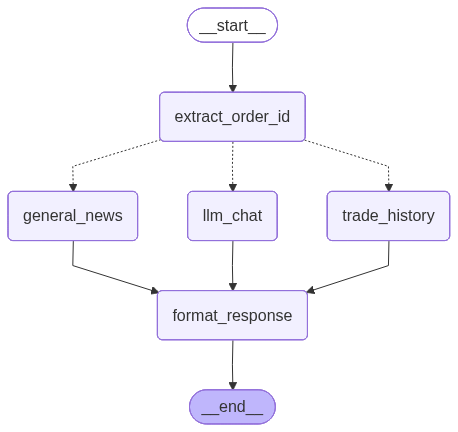
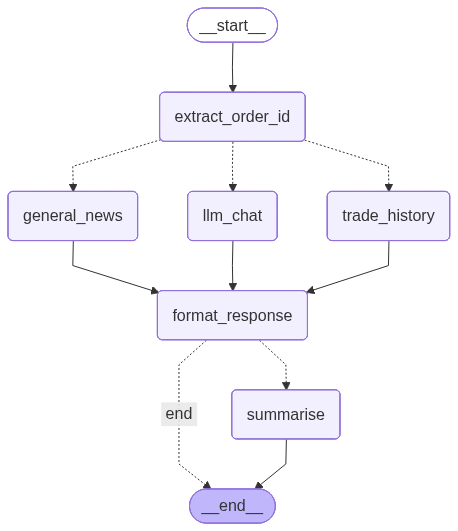
fix: update graph state

diff --git a/rag-chatbot/report.html b/rag-chatbot/report.html
@@ -328,7 +328,7 @@ div.media {
   </head>
   <body>
     <h1 id="title">report.html</h1>
-    <p>Report generated on 20-Mar-2026 at 17:16:57 by <a href="https://pypi.python.org/pypi/pytest-html">pytest-html</a>
+    <p>Report generated on 21-Mar-2026 at 21:15:30 by <a href="https://pypi.python.org/pypi/pytest-html">pytest-html</a>
         v4.2.0</p>
     <div id="environment-header">
       <h2>Environment</h2>
@@ -383,7 +383,7 @@ div.media {
         <h2>Summary</h2>
         <div class="additional-summary prefix">
         </div>
-        <p class="run-count">4 tests took 00:00:02.</p>
+        <p class="run-count">38 tests took 00:00:01.</p>
         <p class="filter">(Un)check the boxes to filter the results.</p>
         <div class="summary__reload">
           <div class="summary__reload__button hidden" onclick="location.reload()">
@@ -393,18 +393,18 @@ div.media {
         <div class="summary__spacer"></div>
         <div class="controls">
           <div class="filters">
-            <input checked="true" class="filter" name="filter_checkbox" type="checkbox" data-test-result="failed" >
-            <span class="failed">1 Failed,</span>
+            <input checked="true" class="filter" name="filter_checkbox" type="checkbox" data-test-result="failed" disabled>
+            <span class="failed">0 Failed,</span>
             <input checked="true" class="filter" name="filter_checkbox" type="checkbox" data-test-result="passed" >
-            <span class="passed">3 Passed,</span>
+            <span class="passed">38 Passed,</span>
             <input checked="true" class="filter" name="filter_checkbox" type="checkbox" data-test-result="skipped" disabled>
             <span class="skipped">0 Skipped,</span>
             <input checked="true" class="filter" name="filter_checkbox" type="checkbox" data-test-result="xfailed" disabled>
             <span class="xfailed">0 Expected failures,</span>
             <input checked="true" class="filter" name="filter_checkbox" type="checkbox" data-test-result="xpassed" disabled>
             <span class="xpassed">0 Unexpected passes,</span>
-            <input checked="true" class="filter" name="filter_checkbox" type="checkbox" data-test-result="error" >
-            <span class="error">1 Errors,</span>
+            <input checked="true" class="filter" name="filter_checkbox" type="checkbox" data-test-result="error" disabled>
+            <span class="error">0 Errors,</span>
             <input checked="true" class="filter" name="filter_checkbox" type="checkbox" data-test-result="rerun" disabled>
             <span class="rerun">0 Reruns</span>
             <input checked="true" class="filter" name="filter_checkbox" type="checkbox" data-test-result="retried" disabled>
@@ -431,7 +431,7 @@ div.media {
       </thead>
     </table>
   <footer>
-    <div id="data-container" data-jsonblob="{&#34;environment&#34;: {&#34;Python&#34;: &#34;3.12.9&#34;, &#34;Platform&#34;: &#34;macOS-26.3.1-arm64-arm-64bit&#34;, &#34;Packages&#34;: {&#34;pytest&#34;: &#34;9.0.2&#34;, &#34;pluggy&#34;: &#34;1.6.0&#34;}, &#34;Plugins&#34;: {&#34;anyio&#34;: &#34;4.12.1&#34;, &#34;langsmith&#34;: &#34;0.7.20&#34;, &#34;metadata&#34;: &#34;3.1.1&#34;, &#34;html&#34;: &#34;4.2.0&#34;, &#34;asyncio&#34;: &#34;1.3.0&#34;}, &#34;JAVA_HOME&#34;: &#34;/Users/joshuadavid/.jenv/versions/22&#34;}, &#34;tests&#34;: {&#34;tests/test_agent.py::test_extract_order_id_regex&#34;: [{&#34;extras&#34;: [], &#34;result&#34;: &#34;Passed&#34;, &#34;testId&#34;: &#34;tests/test_agent.py::test_extract_order_id_regex&#34;, &#34;duration&#34;: &#34;215 ms&#34;, &#34;resultsTableRow&#34;: [&#34;&lt;td class=\&#34;col-result\&#34;&gt;Passed&lt;/td&gt;&#34;, &#34;&lt;td class=\&#34;col-testId\&#34;&gt;tests/test_agent.py::test_extract_order_id_regex&lt;/td&gt;&#34;, &#34;&lt;td class=\&#34;col-duration\&#34;&gt;215 ms&lt;/td&gt;&#34;, &#34;&lt;td class=\&#34;col-links\&#34;&gt;&lt;/td&gt;&#34;], &#34;log&#34;: &#34;No log output captured.&#34;}], &#34;tests/test_agent.py::test_route_logic&#34;: [{&#34;extras&#34;: [], &#34;result&#34;: &#34;Failed&#34;, &#34;testId&#34;: &#34;tests/test_agent.py::test_route_logic&#34;, &#34;duration&#34;: &#34;120 ms&#34;, &#34;resultsTableRow&#34;: [&#34;&lt;td class=\&#34;col-result\&#34;&gt;Failed&lt;/td&gt;&#34;, &#34;&lt;td class=\&#34;col-testId\&#34;&gt;tests/test_agent.py::test_route_logic&lt;/td&gt;&#34;, &#34;&lt;td class=\&#34;col-duration\&#34;&gt;120 ms&lt;/td&gt;&#34;, &#34;&lt;td class=\&#34;col-links\&#34;&gt;&lt;/td&gt;&#34;], &#34;log&#34;: &#34;agent_graph = &amp;lt;app.services.ai_agent.chat_workflow.ChatWorkflow object at 0x108673f20&amp;gt;\n\n    def test_route_logic(agent_graph):\n        # Route to trade_history if order_id exists\n        state_with_id: AgentState = {\n            &amp;quot;messages&amp;quot;: [],\n            &amp;quot;sender&amp;quot;: &amp;quot;user&amp;quot;,\n            &amp;quot;order_id&amp;quot;: &amp;quot;123&amp;quot;,\n            &amp;quot;query&amp;quot;: &amp;quot;&amp;quot;,\n            &amp;quot;variables&amp;quot;: {},\n            &amp;quot;metadata&amp;quot;: {},\n        }\n&amp;gt;       assert agent_graph._route(state_with_id) == &amp;quot;trade_history&amp;quot;\nE       AssertionError: assert &amp;lt;coroutine object ChatWorkflow._route at 0x10b6eb340&amp;gt; == &amp;#x27;trade_history&amp;#x27;\nE        +  where &amp;lt;coroutine object ChatWorkflow._route at 0x10b6eb340&amp;gt; = _route({&amp;#x27;messages&amp;#x27;: [], &amp;#x27;metadata&amp;#x27;: {}, &amp;#x27;order_id&amp;#x27;: &amp;#x27;123&amp;#x27;, &amp;#x27;query&amp;#x27;: &amp;#x27;&amp;#x27;, ...})\nE        +    where _route = &amp;lt;app.services.ai_agent.chat_workflow.ChatWorkflow object at 0x108673f20&amp;gt;._route\n\ntests/test_agent.py:47: AssertionError\n&#34;}], &#34;tests/test_agent.py::test_format_response_json&#34;: [{&#34;extras&#34;: [], &#34;result&#34;: &#34;Passed&#34;, &#34;testId&#34;: &#34;tests/test_agent.py::test_format_response_json&#34;, &#34;duration&#34;: &#34;145 ms&#34;, &#34;resultsTableRow&#34;: [&#34;&lt;td class=\&#34;col-result\&#34;&gt;Passed&lt;/td&gt;&#34;, &#34;&lt;td class=\&#34;col-testId\&#34;&gt;tests/test_agent.py::test_format_response_json&lt;/td&gt;&#34;, &#34;&lt;td class=\&#34;col-duration\&#34;&gt;145 ms&lt;/td&gt;&#34;, &#34;&lt;td class=\&#34;col-links\&#34;&gt;&lt;/td&gt;&#34;], &#34;log&#34;: &#34;No log output captured.&#34;}], &#34;tests/test_agent.py::test_format_response_context&#34;: [{&#34;extras&#34;: [], &#34;result&#34;: &#34;Passed&#34;, &#34;testId&#34;: &#34;tests/test_agent.py::test_format_response_context&#34;, &#34;duration&#34;: &#34;118 ms&#34;, &#34;resultsTableRow&#34;: [&#34;&lt;td class=\&#34;col-result\&#34;&gt;Passed&lt;/td&gt;&#34;, &#34;&lt;td class=\&#34;col-testId\&#34;&gt;tests/test_agent.py::test_format_response_context&lt;/td&gt;&#34;, &#34;&lt;td class=\&#34;col-duration\&#34;&gt;118 ms&lt;/td&gt;&#34;, &#34;&lt;td class=\&#34;col-links\&#34;&gt;&lt;/td&gt;&#34;], &#34;log&#34;: &#34;No log output captured.&#34;}], &#34;tests/test_agent_bot_service.py::test_get_llm_prompt_from_cache&#34;: [{&#34;extras&#34;: [], &#34;result&#34;: &#34;Error&#34;, &#34;testId&#34;: &#34;tests/test_agent_bot_service.py::test_get_llm_prompt_from_cache::setup&#34;, &#34;duration&#34;: &#34;0 ms&#34;, &#34;resultsTableRow&#34;: [&#34;&lt;td class=\&#34;col-result\&#34;&gt;Error&lt;/td&gt;&#34;, &#34;&lt;td class=\&#34;col-testId\&#34;&gt;tests/test_agent_bot_service.py::test_get_llm_prompt_from_cache::setup&lt;/td&gt;&#34;, &#34;&lt;td class=\&#34;col-duration\&#34;&gt;0 ms&lt;/td&gt;&#34;, &#34;&lt;td class=\&#34;col-links\&#34;&gt;&lt;/td&gt;&#34;], &#34;log&#34;: &#34;@pytest.fixture\n    def mock_dependencies():\n        with (\n            patch(&amp;quot;app.services.agent_bot_service.RedisService&amp;quot;) as mock_redis,\n            patch(&amp;quot;app.services.agent_bot_service.S3ConfigService&amp;quot;) as mock_s3,\n&amp;gt;           patch(&amp;quot;app.services.agent_bot_service.create_agent_graph&amp;quot;) as mock_create_agent,\n            ^^^^^^^^^^^^^^^^^^^^^^^^^^^^^^^^^^^^^^^^^^^^^^^^^^^^^^^^^^\n        ):\n\ntests/test_agent_bot_service.py:13: \n_ _ _ _ _ _ _ _ _ _ _ _ _ _ _ _ _ _ _ _ _ _ _ _ _ _ _ _ _ _ _ _ _ _ _ _ _ _ _ _ _ _ _ _ _ _ _ _ _ _ _ _ _ _ _ _ _ _ _ _ _ _ _ _ _ _ _ _ _ _ _ _ _ _ _ _ _\n/opt/homebrew/Cellar/python@3.12/3.12.9/Frameworks/Python.framework/Versions/3.12/lib/python3.12/unittest/mock.py:1467: in __enter__\n    original, local = self.get_original()\n                      ^^^^^^^^^^^^^^^^^^^\n_ _ _ _ _ _ _ _ _ _ _ _ _ _ _ _ _ _ _ _ _ _ _ _ _ _ _ _ _ _ _ _ _ _ _ _ _ _ _ _ _ _ _ _ _ _ _ _ _ _ _ _ _ _ _ _ _ _ _ _ _ _ _ _ _ _ _ _ _ _ _ _ _ _ _ _ _\n\nself = &amp;lt;unittest.mock._patch object at 0x10b789f40&amp;gt;\n\n    def get_original(self):\n        target = self.getter()\n        name = self.attribute\n    \n        original = DEFAULT\n        local = False\n    \n        try:\n            original = target.__dict__[name]\n        except (AttributeError, KeyError):\n            original = getattr(target, name, DEFAULT)\n        else:\n            local = True\n    \n        if name in _builtins and isinstance(target, ModuleType):\n            self.create = True\n    \n        if not self.create and original is DEFAULT:\n&amp;gt;           raise AttributeError(\n                &amp;quot;%s does not have the attribute %r&amp;quot; % (target, name)\n            )\nE           AttributeError: &amp;lt;module &amp;#x27;app.services.agent_bot_service&amp;#x27; from &amp;#x27;/Users/joshuadavid/agentic-ai-trading-be/rag-chatbot/app/services/agent_bot_service.py&amp;#x27;&amp;gt; does not have the attribute &amp;#x27;create_agent_graph&amp;#x27;\n\n/opt/homebrew/Cellar/python@3.12/3.12.9/Frameworks/Python.framework/Versions/3.12/lib/python3.12/unittest/mock.py:1437: AttributeError\n&#34;}]}, &#34;renderCollapsed&#34;: [&#34;passed&#34;], &#34;initialSort&#34;: &#34;result&#34;, &#34;title&#34;: &#34;report.html&#34;}"></div>
+    <div id="data-container" data-jsonblob="{&#34;environment&#34;: {&#34;Python&#34;: &#34;3.12.9&#34;, &#34;Platform&#34;: &#34;macOS-26.3.1-arm64-arm-64bit&#34;, &#34;Packages&#34;: {&#34;pytest&#34;: &#34;9.0.2&#34;, &#34;pluggy&#34;: &#34;1.6.0&#34;}, &#34;Plugins&#34;: {&#34;anyio&#34;: &#34;4.12.1&#34;, &#34;langsmith&#34;: &#34;0.7.20&#34;, &#34;metadata&#34;: &#34;3.1.1&#34;, &#34;html&#34;: &#34;4.2.0&#34;, &#34;asyncio&#34;: &#34;1.3.0&#34;}, &#34;JAVA_HOME&#34;: &#34;/Users/joshuadavid/.jenv/versions/22&#34;}, &#34;tests&#34;: {&#34;tests/test_agent.py::test_extract_order_id_regex&#34;: [{&#34;extras&#34;: [], &#34;result&#34;: &#34;Passed&#34;, &#34;testId&#34;: &#34;tests/test_agent.py::test_extract_order_id_regex&#34;, &#34;duration&#34;: &#34;1 ms&#34;, &#34;resultsTableRow&#34;: [&#34;&lt;td class=\&#34;col-result\&#34;&gt;Passed&lt;/td&gt;&#34;, &#34;&lt;td class=\&#34;col-testId\&#34;&gt;tests/test_agent.py::test_extract_order_id_regex&lt;/td&gt;&#34;, &#34;&lt;td class=\&#34;col-duration\&#34;&gt;1 ms&lt;/td&gt;&#34;, &#34;&lt;td class=\&#34;col-links\&#34;&gt;&lt;/td&gt;&#34;], &#34;log&#34;: &#34;No log output captured.&#34;}], &#34;tests/test_agent.py::test_route_logic&#34;: [{&#34;extras&#34;: [], &#34;result&#34;: &#34;Passed&#34;, &#34;testId&#34;: &#34;tests/test_agent.py::test_route_logic&#34;, &#34;duration&#34;: &#34;8 ms&#34;, &#34;resultsTableRow&#34;: [&#34;&lt;td class=\&#34;col-result\&#34;&gt;Passed&lt;/td&gt;&#34;, &#34;&lt;td class=\&#34;col-testId\&#34;&gt;tests/test_agent.py::test_route_logic&lt;/td&gt;&#34;, &#34;&lt;td class=\&#34;col-duration\&#34;&gt;8 ms&lt;/td&gt;&#34;, &#34;&lt;td class=\&#34;col-links\&#34;&gt;&lt;/td&gt;&#34;], &#34;log&#34;: &#34;No log output captured.&#34;}], &#34;tests/test_agent.py::test_format_response_json&#34;: [{&#34;extras&#34;: [], &#34;result&#34;: &#34;Passed&#34;, &#34;testId&#34;: &#34;tests/test_agent.py::test_format_response_json&#34;, &#34;duration&#34;: &#34;0 ms&#34;, &#34;resultsTableRow&#34;: [&#34;&lt;td class=\&#34;col-result\&#34;&gt;Passed&lt;/td&gt;&#34;, &#34;&lt;td class=\&#34;col-testId\&#34;&gt;tests/test_agent.py::test_format_response_json&lt;/td&gt;&#34;, &#34;&lt;td class=\&#34;col-duration\&#34;&gt;0 ms&lt;/td&gt;&#34;, &#34;&lt;td class=\&#34;col-links\&#34;&gt;&lt;/td&gt;&#34;], &#34;log&#34;: &#34;No log output captured.&#34;}], &#34;tests/test_agent.py::test_format_response_context&#34;: [{&#34;extras&#34;: [], &#34;result&#34;: &#34;Passed&#34;, &#34;testId&#34;: &#34;tests/test_agent.py::test_format_response_context&#34;, &#34;duration&#34;: &#34;0 ms&#34;, &#34;resultsTableRow&#34;: [&#34;&lt;td class=\&#34;col-result\&#34;&gt;Passed&lt;/td&gt;&#34;, &#34;&lt;td class=\&#34;col-testId\&#34;&gt;tests/test_agent.py::test_format_response_context&lt;/td&gt;&#34;, &#34;&lt;td class=\&#34;col-duration\&#34;&gt;0 ms&lt;/td&gt;&#34;, &#34;&lt;td class=\&#34;col-links\&#34;&gt;&lt;/td&gt;&#34;], &#34;log&#34;: &#34;No log output captured.&#34;}], &#34;tests/test_agent_bot_service.py::test_get_llm_prompt_from_cache&#34;: [{&#34;extras&#34;: [], &#34;result&#34;: &#34;Passed&#34;, &#34;testId&#34;: &#34;tests/test_agent_bot_service.py::test_get_llm_prompt_from_cache&#34;, &#34;duration&#34;: &#34;1 ms&#34;, &#34;resultsTableRow&#34;: [&#34;&lt;td class=\&#34;col-result\&#34;&gt;Passed&lt;/td&gt;&#34;, &#34;&lt;td class=\&#34;col-testId\&#34;&gt;tests/test_agent_bot_service.py::test_get_llm_prompt_from_cache&lt;/td&gt;&#34;, &#34;&lt;td class=\&#34;col-duration\&#34;&gt;1 ms&lt;/td&gt;&#34;, &#34;&lt;td class=\&#34;col-links\&#34;&gt;&lt;/td&gt;&#34;], &#34;log&#34;: &#34;No log output captured.&#34;}], &#34;tests/test_agent_bot_service.py::test_get_llm_prompt_from_s3&#34;: [{&#34;extras&#34;: [], &#34;result&#34;: &#34;Passed&#34;, &#34;testId&#34;: &#34;tests/test_agent_bot_service.py::test_get_llm_prompt_from_s3&#34;, &#34;duration&#34;: &#34;1 ms&#34;, &#34;resultsTableRow&#34;: [&#34;&lt;td class=\&#34;col-result\&#34;&gt;Passed&lt;/td&gt;&#34;, &#34;&lt;td class=\&#34;col-testId\&#34;&gt;tests/test_agent_bot_service.py::test_get_llm_prompt_from_s3&lt;/td&gt;&#34;, &#34;&lt;td class=\&#34;col-duration\&#34;&gt;1 ms&lt;/td&gt;&#34;, &#34;&lt;td class=\&#34;col-links\&#34;&gt;&lt;/td&gt;&#34;], &#34;log&#34;: &#34;No log output captured.&#34;}], &#34;tests/test_agent_bot_service.py::test_get_chat_history&#34;: [{&#34;extras&#34;: [], &#34;result&#34;: &#34;Passed&#34;, &#34;testId&#34;: &#34;tests/test_agent_bot_service.py::test_get_chat_history&#34;, &#34;duration&#34;: &#34;1 ms&#34;, &#34;resultsTableRow&#34;: [&#34;&lt;td class=\&#34;col-result\&#34;&gt;Passed&lt;/td&gt;&#34;, &#34;&lt;td class=\&#34;col-testId\&#34;&gt;tests/test_agent_bot_service.py::test_get_chat_history&lt;/td&gt;&#34;, &#34;&lt;td class=\&#34;col-duration\&#34;&gt;1 ms&lt;/td&gt;&#34;, &#34;&lt;td class=\&#34;col-links\&#34;&gt;&lt;/td&gt;&#34;], &#34;log&#34;: &#34;No log output captured.&#34;}], &#34;tests/test_agent_bot_service.py::test_is_displayable&#34;: [{&#34;extras&#34;: [], &#34;result&#34;: &#34;Passed&#34;, &#34;testId&#34;: &#34;tests/test_agent_bot_service.py::test_is_displayable&#34;, &#34;duration&#34;: &#34;1 ms&#34;, &#34;resultsTableRow&#34;: [&#34;&lt;td class=\&#34;col-result\&#34;&gt;Passed&lt;/td&gt;&#34;, &#34;&lt;td class=\&#34;col-testId\&#34;&gt;tests/test_agent_bot_service.py::test_is_displayable&lt;/td&gt;&#34;, &#34;&lt;td class=\&#34;col-duration\&#34;&gt;1 ms&lt;/td&gt;&#34;, &#34;&lt;td class=\&#34;col-links\&#34;&gt;&lt;/td&gt;&#34;], &#34;log&#34;: &#34;No log output captured.&#34;}], &#34;tests/test_agent_bot_service.py::test_format_message&#34;: [{&#34;extras&#34;: [], &#34;result&#34;: &#34;Passed&#34;, &#34;testId&#34;: &#34;tests/test_agent_bot_service.py::test_format_message&#34;, &#34;duration&#34;: &#34;1 ms&#34;, &#34;resultsTableRow&#34;: [&#34;&lt;td class=\&#34;col-result\&#34;&gt;Passed&lt;/td&gt;&#34;, &#34;&lt;td class=\&#34;col-testId\&#34;&gt;tests/test_agent_bot_service.py::test_format_message&lt;/td&gt;&#34;, &#34;&lt;td class=\&#34;col-duration\&#34;&gt;1 ms&lt;/td&gt;&#34;, &#34;&lt;td class=\&#34;col-links\&#34;&gt;&lt;/td&gt;&#34;], &#34;log&#34;: &#34;No log output captured.&#34;}], &#34;tests/test_agent_bot_service.py::test_invoke_agent_streaming&#34;: [{&#34;extras&#34;: [], &#34;result&#34;: &#34;Passed&#34;, &#34;testId&#34;: &#34;tests/test_agent_bot_service.py::test_invoke_agent_streaming&#34;, &#34;duration&#34;: &#34;3 ms&#34;, &#34;resultsTableRow&#34;: [&#34;&lt;td class=\&#34;col-result\&#34;&gt;Passed&lt;/td&gt;&#34;, &#34;&lt;td class=\&#34;col-testId\&#34;&gt;tests/test_agent_bot_service.py::test_invoke_agent_streaming&lt;/td&gt;&#34;, &#34;&lt;td class=\&#34;col-duration\&#34;&gt;3 ms&lt;/td&gt;&#34;, &#34;&lt;td class=\&#34;col-links\&#34;&gt;&lt;/td&gt;&#34;], &#34;log&#34;: &#34;----------------------------- Captured stdout call -----------------------------\n\u256d\u2500\u2500\u2500\u2500\u2500\u2500\u2500\u2500\u2500\u2500\u2500\u2500\u2500\u2500\u2500\u2500\u2500\u2500\u2500\u2500\u2500\u2500\u2500\u2500\u2500\u2500\u2500\u2500\u2500\u2500\u2500\u2500 Thinking... \u2500\u2500\u2500\u2500\u2500\u2500\u2500\u2500\u2500\u2500\u2500\u2500\u2500\u2500\u2500\u2500\u2500\u2500\u2500\u2500\u2500\u2500\u2500\u2500\u2500\u2500\u2500\u2500\u2500\u2500\u2500\u2500\u2500\u256e\n\u2502 &amp;#x27;Hi there&amp;#x27;                                                                   \u2502\n\u2570\u2500\u2500\u2500\u2500\u2500\u2500\u2500\u2500\u2500\u2500\u2500\u2500\u2500\u2500\u2500\u2500\u2500\u2500\u2500\u2500\u2500\u2500\u2500\u2500\u2500\u2500\u2500\u2500\u2500\u2500\u2500\u2500\u2500\u2500\u2500\u2500\u2500\u2500\u2500\u2500\u2500\u2500\u2500\u2500\u2500\u2500\u2500\u2500\u2500\u2500\u2500\u2500\u2500\u2500\u2500\u2500\u2500\u2500\u2500\u2500\u2500\u2500\u2500\u2500\u2500\u2500\u2500\u2500\u2500\u2500\u2500\u2500\u2500\u2500\u2500\u2500\u2500\u2500\u256f\n&#34;}], &#34;tests/test_core_services.py::test_s3_config_service_init&#34;: [{&#34;extras&#34;: [], &#34;result&#34;: &#34;Passed&#34;, &#34;testId&#34;: &#34;tests/test_core_services.py::test_s3_config_service_init&#34;, &#34;duration&#34;: &#34;0 ms&#34;, &#34;resultsTableRow&#34;: [&#34;&lt;td class=\&#34;col-result\&#34;&gt;Passed&lt;/td&gt;&#34;, &#34;&lt;td class=\&#34;col-testId\&#34;&gt;tests/test_core_services.py::test_s3_config_service_init&lt;/td&gt;&#34;, &#34;&lt;td class=\&#34;col-duration\&#34;&gt;0 ms&lt;/td&gt;&#34;, &#34;&lt;td class=\&#34;col-links\&#34;&gt;&lt;/td&gt;&#34;], &#34;log&#34;: &#34;No log output captured.&#34;}], &#34;tests/test_core_services.py::test_s3_get_file_content_success&#34;: [{&#34;extras&#34;: [], &#34;result&#34;: &#34;Passed&#34;, &#34;testId&#34;: &#34;tests/test_core_services.py::test_s3_get_file_content_success&#34;, &#34;duration&#34;: &#34;0 ms&#34;, &#34;resultsTableRow&#34;: [&#34;&lt;td class=\&#34;col-result\&#34;&gt;Passed&lt;/td&gt;&#34;, &#34;&lt;td class=\&#34;col-testId\&#34;&gt;tests/test_core_services.py::test_s3_get_file_content_success&lt;/td&gt;&#34;, &#34;&lt;td class=\&#34;col-duration\&#34;&gt;0 ms&lt;/td&gt;&#34;, &#34;&lt;td class=\&#34;col-links\&#34;&gt;&lt;/td&gt;&#34;], &#34;log&#34;: &#34;No log output captured.&#34;}], &#34;tests/test_core_services.py::test_s3_get_file_content_failure&#34;: [{&#34;extras&#34;: [], &#34;result&#34;: &#34;Passed&#34;, &#34;testId&#34;: &#34;tests/test_core_services.py::test_s3_get_file_content_failure&#34;, &#34;duration&#34;: &#34;0 ms&#34;, &#34;resultsTableRow&#34;: [&#34;&lt;td class=\&#34;col-result\&#34;&gt;Passed&lt;/td&gt;&#34;, &#34;&lt;td class=\&#34;col-testId\&#34;&gt;tests/test_core_services.py::test_s3_get_file_content_failure&lt;/td&gt;&#34;, &#34;&lt;td class=\&#34;col-duration\&#34;&gt;0 ms&lt;/td&gt;&#34;, &#34;&lt;td class=\&#34;col-links\&#34;&gt;&lt;/td&gt;&#34;], &#34;log&#34;: &#34;----------------------------- Captured stdout call -----------------------------\nS3 Retrieval Error: An error occurred (404) when calling the GetObject operation: Unknown\n&#34;}], &#34;tests/test_core_services.py::test_database_manager_get_checkpointer&#34;: [{&#34;extras&#34;: [], &#34;result&#34;: &#34;Passed&#34;, &#34;testId&#34;: &#34;tests/test_core_services.py::test_database_manager_get_checkpointer&#34;, &#34;duration&#34;: &#34;2 ms&#34;, &#34;resultsTableRow&#34;: [&#34;&lt;td class=\&#34;col-result\&#34;&gt;Passed&lt;/td&gt;&#34;, &#34;&lt;td class=\&#34;col-testId\&#34;&gt;tests/test_core_services.py::test_database_manager_get_checkpointer&lt;/td&gt;&#34;, &#34;&lt;td class=\&#34;col-duration\&#34;&gt;2 ms&lt;/td&gt;&#34;, &#34;&lt;td class=\&#34;col-links\&#34;&gt;&lt;/td&gt;&#34;], &#34;log&#34;: &#34;No log output captured.&#34;}], &#34;tests/test_history.py::test_agent_state_message_addition&#34;: [{&#34;extras&#34;: [], &#34;result&#34;: &#34;Passed&#34;, &#34;testId&#34;: &#34;tests/test_history.py::test_agent_state_message_addition&#34;, &#34;duration&#34;: &#34;0 ms&#34;, &#34;resultsTableRow&#34;: [&#34;&lt;td class=\&#34;col-result\&#34;&gt;Passed&lt;/td&gt;&#34;, &#34;&lt;td class=\&#34;col-testId\&#34;&gt;tests/test_history.py::test_agent_state_message_addition&lt;/td&gt;&#34;, &#34;&lt;td class=\&#34;col-duration\&#34;&gt;0 ms&lt;/td&gt;&#34;, &#34;&lt;td class=\&#34;col-links\&#34;&gt;&lt;/td&gt;&#34;], &#34;log&#34;: &#34;No log output captured.&#34;}], &#34;tests/test_history.py::test_agent_state_message_replacement&#34;: [{&#34;extras&#34;: [], &#34;result&#34;: &#34;Passed&#34;, &#34;testId&#34;: &#34;tests/test_history.py::test_agent_state_message_replacement&#34;, &#34;duration&#34;: &#34;0 ms&#34;, &#34;resultsTableRow&#34;: [&#34;&lt;td class=\&#34;col-result\&#34;&gt;Passed&lt;/td&gt;&#34;, &#34;&lt;td class=\&#34;col-testId\&#34;&gt;tests/test_history.py::test_agent_state_message_replacement&lt;/td&gt;&#34;, &#34;&lt;td class=\&#34;col-duration\&#34;&gt;0 ms&lt;/td&gt;&#34;, &#34;&lt;td class=\&#34;col-links\&#34;&gt;&lt;/td&gt;&#34;], &#34;log&#34;: &#34;No log output captured.&#34;}], &#34;tests/test_history.py::test_llm_chat_node_uses_history&#34;: [{&#34;extras&#34;: [], &#34;result&#34;: &#34;Passed&#34;, &#34;testId&#34;: &#34;tests/test_history.py::test_llm_chat_node_uses_history&#34;, &#34;duration&#34;: &#34;1 ms&#34;, &#34;resultsTableRow&#34;: [&#34;&lt;td class=\&#34;col-result\&#34;&gt;Passed&lt;/td&gt;&#34;, &#34;&lt;td class=\&#34;col-testId\&#34;&gt;tests/test_history.py::test_llm_chat_node_uses_history&lt;/td&gt;&#34;, &#34;&lt;td class=\&#34;col-duration\&#34;&gt;1 ms&lt;/td&gt;&#34;, &#34;&lt;td class=\&#34;col-links\&#34;&gt;&lt;/td&gt;&#34;], &#34;log&#34;: &#34;No log output captured.&#34;}], &#34;tests/test_history.py::test_format_response_node_replacement&#34;: [{&#34;extras&#34;: [], &#34;result&#34;: &#34;Passed&#34;, &#34;testId&#34;: &#34;tests/test_history.py::test_format_response_node_replacement&#34;, &#34;duration&#34;: &#34;0 ms&#34;, &#34;resultsTableRow&#34;: [&#34;&lt;td class=\&#34;col-result\&#34;&gt;Passed&lt;/td&gt;&#34;, &#34;&lt;td class=\&#34;col-testId\&#34;&gt;tests/test_history.py::test_format_response_node_replacement&lt;/td&gt;&#34;, &#34;&lt;td class=\&#34;col-duration\&#34;&gt;0 ms&lt;/td&gt;&#34;, &#34;&lt;td class=\&#34;col-links\&#34;&gt;&lt;/td&gt;&#34;], &#34;log&#34;: &#34;No log output captured.&#34;}], &#34;tests/test_llm_providers.py::test_get_strategy_success&#34;: [{&#34;extras&#34;: [], &#34;result&#34;: &#34;Passed&#34;, &#34;testId&#34;: &#34;tests/test_llm_providers.py::test_get_strategy_success&#34;, &#34;duration&#34;: &#34;0 ms&#34;, &#34;resultsTableRow&#34;: [&#34;&lt;td class=\&#34;col-result\&#34;&gt;Passed&lt;/td&gt;&#34;, &#34;&lt;td class=\&#34;col-testId\&#34;&gt;tests/test_llm_providers.py::test_get_strategy_success&lt;/td&gt;&#34;, &#34;&lt;td class=\&#34;col-duration\&#34;&gt;0 ms&lt;/td&gt;&#34;, &#34;&lt;td class=\&#34;col-links\&#34;&gt;&lt;/td&gt;&#34;], &#34;log&#34;: &#34;No log output captured.&#34;}], &#34;tests/test_llm_providers.py::test_get_strategy_failure&#34;: [{&#34;extras&#34;: [], &#34;result&#34;: &#34;Passed&#34;, &#34;testId&#34;: &#34;tests/test_llm_providers.py::test_get_strategy_failure&#34;, &#34;duration&#34;: &#34;0 ms&#34;, &#34;resultsTableRow&#34;: [&#34;&lt;td class=\&#34;col-result\&#34;&gt;Passed&lt;/td&gt;&#34;, &#34;&lt;td class=\&#34;col-testId\&#34;&gt;tests/test_llm_providers.py::test_get_strategy_failure&lt;/td&gt;&#34;, &#34;&lt;td class=\&#34;col-duration\&#34;&gt;0 ms&lt;/td&gt;&#34;, &#34;&lt;td class=\&#34;col-links\&#34;&gt;&lt;/td&gt;&#34;], &#34;log&#34;: &#34;No log output captured.&#34;}], &#34;tests/test_llm_providers.py::test_ollama_strategy&#34;: [{&#34;extras&#34;: [], &#34;result&#34;: &#34;Passed&#34;, &#34;testId&#34;: &#34;tests/test_llm_providers.py::test_ollama_strategy&#34;, &#34;duration&#34;: &#34;0 ms&#34;, &#34;resultsTableRow&#34;: [&#34;&lt;td class=\&#34;col-result\&#34;&gt;Passed&lt;/td&gt;&#34;, &#34;&lt;td class=\&#34;col-testId\&#34;&gt;tests/test_llm_providers.py::test_ollama_strategy&lt;/td&gt;&#34;, &#34;&lt;td class=\&#34;col-duration\&#34;&gt;0 ms&lt;/td&gt;&#34;, &#34;&lt;td class=\&#34;col-links\&#34;&gt;&lt;/td&gt;&#34;], &#34;log&#34;: &#34;No log output captured.&#34;}], &#34;tests/test_llm_providers.py::test_gemini_strategy&#34;: [{&#34;extras&#34;: [], &#34;result&#34;: &#34;Passed&#34;, &#34;testId&#34;: &#34;tests/test_llm_providers.py::test_gemini_strategy&#34;, &#34;duration&#34;: &#34;0 ms&#34;, &#34;resultsTableRow&#34;: [&#34;&lt;td class=\&#34;col-result\&#34;&gt;Passed&lt;/td&gt;&#34;, &#34;&lt;td class=\&#34;col-testId\&#34;&gt;tests/test_llm_providers.py::test_gemini_strategy&lt;/td&gt;&#34;, &#34;&lt;td class=\&#34;col-duration\&#34;&gt;0 ms&lt;/td&gt;&#34;, &#34;&lt;td class=\&#34;col-links\&#34;&gt;&lt;/td&gt;&#34;], &#34;log&#34;: &#34;No log output captured.&#34;}], &#34;tests/test_llm_providers.py::test_groq_strategy&#34;: [{&#34;extras&#34;: [], &#34;result&#34;: &#34;Passed&#34;, &#34;testId&#34;: &#34;tests/test_llm_providers.py::test_groq_strategy&#34;, &#34;duration&#34;: &#34;0 ms&#34;, &#34;resultsTableRow&#34;: [&#34;&lt;td class=\&#34;col-result\&#34;&gt;Passed&lt;/td&gt;&#34;, &#34;&lt;td class=\&#34;col-testId\&#34;&gt;tests/test_llm_providers.py::test_groq_strategy&lt;/td&gt;&#34;, &#34;&lt;td class=\&#34;col-duration\&#34;&gt;0 ms&lt;/td&gt;&#34;, &#34;&lt;td class=\&#34;col-links\&#34;&gt;&lt;/td&gt;&#34;], &#34;log&#34;: &#34;No log output captured.&#34;}], &#34;tests/test_redis_service.py::test_redis_service_init&#34;: [{&#34;extras&#34;: [], &#34;result&#34;: &#34;Passed&#34;, &#34;testId&#34;: &#34;tests/test_redis_service.py::test_redis_service_init&#34;, &#34;duration&#34;: &#34;0 ms&#34;, &#34;resultsTableRow&#34;: [&#34;&lt;td class=\&#34;col-result\&#34;&gt;Passed&lt;/td&gt;&#34;, &#34;&lt;td class=\&#34;col-testId\&#34;&gt;tests/test_redis_service.py::test_redis_service_init&lt;/td&gt;&#34;, &#34;&lt;td class=\&#34;col-duration\&#34;&gt;0 ms&lt;/td&gt;&#34;, &#34;&lt;td class=\&#34;col-links\&#34;&gt;&lt;/td&gt;&#34;], &#34;log&#34;: &#34;No log output captured.&#34;}], &#34;tests/test_redis_service.py::test_redis_service_verify_connection_failure&#34;: [{&#34;extras&#34;: [], &#34;result&#34;: &#34;Passed&#34;, &#34;testId&#34;: &#34;tests/test_redis_service.py::test_redis_service_verify_connection_failure&#34;, &#34;duration&#34;: &#34;0 ms&#34;, &#34;resultsTableRow&#34;: [&#34;&lt;td class=\&#34;col-result\&#34;&gt;Passed&lt;/td&gt;&#34;, &#34;&lt;td class=\&#34;col-testId\&#34;&gt;tests/test_redis_service.py::test_redis_service_verify_connection_failure&lt;/td&gt;&#34;, &#34;&lt;td class=\&#34;col-duration\&#34;&gt;0 ms&lt;/td&gt;&#34;, &#34;&lt;td class=\&#34;col-links\&#34;&gt;&lt;/td&gt;&#34;], &#34;log&#34;: &#34;------------------------------ Captured log call -------------------------------\nERROR    app.utils.logger:redis_service.py:24 \u274c Redis Authentication failed.\n\n&#34;}], &#34;tests/test_redis_service.py::test_get_cached_prompt_success&#34;: [{&#34;extras&#34;: [], &#34;result&#34;: &#34;Passed&#34;, &#34;testId&#34;: &#34;tests/test_redis_service.py::test_get_cached_prompt_success&#34;, &#34;duration&#34;: &#34;1 ms&#34;, &#34;resultsTableRow&#34;: [&#34;&lt;td class=\&#34;col-result\&#34;&gt;Passed&lt;/td&gt;&#34;, &#34;&lt;td class=\&#34;col-testId\&#34;&gt;tests/test_redis_service.py::test_get_cached_prompt_success&lt;/td&gt;&#34;, &#34;&lt;td class=\&#34;col-duration\&#34;&gt;1 ms&lt;/td&gt;&#34;, &#34;&lt;td class=\&#34;col-links\&#34;&gt;&lt;/td&gt;&#34;], &#34;log&#34;: &#34;No log output captured.&#34;}], &#34;tests/test_redis_service.py::test_get_cached_prompt_error&#34;: [{&#34;extras&#34;: [], &#34;result&#34;: &#34;Passed&#34;, &#34;testId&#34;: &#34;tests/test_redis_service.py::test_get_cached_prompt_error&#34;, &#34;duration&#34;: &#34;1 ms&#34;, &#34;resultsTableRow&#34;: [&#34;&lt;td class=\&#34;col-result\&#34;&gt;Passed&lt;/td&gt;&#34;, &#34;&lt;td class=\&#34;col-testId\&#34;&gt;tests/test_redis_service.py::test_get_cached_prompt_error&lt;/td&gt;&#34;, &#34;&lt;td class=\&#34;col-duration\&#34;&gt;1 ms&lt;/td&gt;&#34;, &#34;&lt;td class=\&#34;col-links\&#34;&gt;&lt;/td&gt;&#34;], &#34;log&#34;: &#34;------------------------------ Captured log call -------------------------------\nERROR    app.utils.logger:redis_service.py:32 Redis GET error: Redis error\n\n&#34;}], &#34;tests/test_redis_service.py::test_set_cached_prompt_success&#34;: [{&#34;extras&#34;: [], &#34;result&#34;: &#34;Passed&#34;, &#34;testId&#34;: &#34;tests/test_redis_service.py::test_set_cached_prompt_success&#34;, &#34;duration&#34;: &#34;0 ms&#34;, &#34;resultsTableRow&#34;: [&#34;&lt;td class=\&#34;col-result\&#34;&gt;Passed&lt;/td&gt;&#34;, &#34;&lt;td class=\&#34;col-testId\&#34;&gt;tests/test_redis_service.py::test_set_cached_prompt_success&lt;/td&gt;&#34;, &#34;&lt;td class=\&#34;col-duration\&#34;&gt;0 ms&lt;/td&gt;&#34;, &#34;&lt;td class=\&#34;col-links\&#34;&gt;&lt;/td&gt;&#34;], &#34;log&#34;: &#34;No log output captured.&#34;}], &#34;tests/test_redis_service.py::test_set_cached_prompt_error&#34;: [{&#34;extras&#34;: [], &#34;result&#34;: &#34;Passed&#34;, &#34;testId&#34;: &#34;tests/test_redis_service.py::test_set_cached_prompt_error&#34;, &#34;duration&#34;: &#34;0 ms&#34;, &#34;resultsTableRow&#34;: [&#34;&lt;td class=\&#34;col-result\&#34;&gt;Passed&lt;/td&gt;&#34;, &#34;&lt;td class=\&#34;col-testId\&#34;&gt;tests/test_redis_service.py::test_set_cached_prompt_error&lt;/td&gt;&#34;, &#34;&lt;td class=\&#34;col-duration\&#34;&gt;0 ms&lt;/td&gt;&#34;, &#34;&lt;td class=\&#34;col-links\&#34;&gt;&lt;/td&gt;&#34;], &#34;log&#34;: &#34;------------------------------ Captured log call -------------------------------\nERROR    app.utils.logger:redis_service.py:39 Redis SETEX error: Redis error\n\n&#34;}], &#34;tests/test_summarization.py::test_summarise_node_below_threshold&#34;: [{&#34;extras&#34;: [], &#34;result&#34;: &#34;Passed&#34;, &#34;testId&#34;: &#34;tests/test_summarization.py::test_summarise_node_below_threshold&#34;, &#34;duration&#34;: &#34;1 ms&#34;, &#34;resultsTableRow&#34;: [&#34;&lt;td class=\&#34;col-result\&#34;&gt;Passed&lt;/td&gt;&#34;, &#34;&lt;td class=\&#34;col-testId\&#34;&gt;tests/test_summarization.py::test_summarise_node_below_threshold&lt;/td&gt;&#34;, &#34;&lt;td class=\&#34;col-duration\&#34;&gt;1 ms&lt;/td&gt;&#34;, &#34;&lt;td class=\&#34;col-links\&#34;&gt;&lt;/td&gt;&#34;], &#34;log&#34;: &#34;No log output captured.&#34;}], &#34;tests/test_summarization.py::test_summarise_node_exceeds_threshold&#34;: [{&#34;extras&#34;: [], &#34;result&#34;: &#34;Passed&#34;, &#34;testId&#34;: &#34;tests/test_summarization.py::test_summarise_node_exceeds_threshold&#34;, &#34;duration&#34;: &#34;1 ms&#34;, &#34;resultsTableRow&#34;: [&#34;&lt;td class=\&#34;col-result\&#34;&gt;Passed&lt;/td&gt;&#34;, &#34;&lt;td class=\&#34;col-testId\&#34;&gt;tests/test_summarization.py::test_summarise_node_exceeds_threshold&lt;/td&gt;&#34;, &#34;&lt;td class=\&#34;col-duration\&#34;&gt;1 ms&lt;/td&gt;&#34;, &#34;&lt;td class=\&#34;col-links\&#34;&gt;&lt;/td&gt;&#34;], &#34;log&#34;: &#34;No log output captured.&#34;}], &#34;tests/test_summarization.py::test_llm_chat_node_includes_summary&#34;: [{&#34;extras&#34;: [], &#34;result&#34;: &#34;Passed&#34;, &#34;testId&#34;: &#34;tests/test_summarization.py::test_llm_chat_node_includes_summary&#34;, &#34;duration&#34;: &#34;1 ms&#34;, &#34;resultsTableRow&#34;: [&#34;&lt;td class=\&#34;col-result\&#34;&gt;Passed&lt;/td&gt;&#34;, &#34;&lt;td class=\&#34;col-testId\&#34;&gt;tests/test_summarization.py::test_llm_chat_node_includes_summary&lt;/td&gt;&#34;, &#34;&lt;td class=\&#34;col-duration\&#34;&gt;1 ms&lt;/td&gt;&#34;, &#34;&lt;td class=\&#34;col-links\&#34;&gt;&lt;/td&gt;&#34;], &#34;log&#34;: &#34;No log output captured.&#34;}], &#34;tests/test_summarization.py::test_summarise_node_fails_gracefully&#34;: [{&#34;extras&#34;: [], &#34;result&#34;: &#34;Passed&#34;, &#34;testId&#34;: &#34;tests/test_summarization.py::test_summarise_node_fails_gracefully&#34;, &#34;duration&#34;: &#34;1 ms&#34;, &#34;resultsTableRow&#34;: [&#34;&lt;td class=\&#34;col-result\&#34;&gt;Passed&lt;/td&gt;&#34;, &#34;&lt;td class=\&#34;col-testId\&#34;&gt;tests/test_summarization.py::test_summarise_node_fails_gracefully&lt;/td&gt;&#34;, &#34;&lt;td class=\&#34;col-duration\&#34;&gt;1 ms&lt;/td&gt;&#34;, &#34;&lt;td class=\&#34;col-links\&#34;&gt;&lt;/td&gt;&#34;], &#34;log&#34;: &#34;------------------------------ Captured log call -------------------------------\nERROR    app.utils.logger:summarise.py:62 Summarization failed: API Down\n\n&#34;}], &#34;tests/test_tools.py::test_get_general_news_success&#34;: [{&#34;extras&#34;: [], &#34;result&#34;: &#34;Passed&#34;, &#34;testId&#34;: &#34;tests/test_tools.py::test_get_general_news_success&#34;, &#34;duration&#34;: &#34;8 ms&#34;, &#34;resultsTableRow&#34;: [&#34;&lt;td class=\&#34;col-result\&#34;&gt;Passed&lt;/td&gt;&#34;, &#34;&lt;td class=\&#34;col-testId\&#34;&gt;tests/test_tools.py::test_get_general_news_success&lt;/td&gt;&#34;, &#34;&lt;td class=\&#34;col-duration\&#34;&gt;8 ms&lt;/td&gt;&#34;, &#34;&lt;td class=\&#34;col-links\&#34;&gt;&lt;/td&gt;&#34;], &#34;log&#34;: &#34;No log output captured.&#34;}], &#34;tests/test_tools.py::test_get_general_news_no_results&#34;: [{&#34;extras&#34;: [], &#34;result&#34;: &#34;Passed&#34;, &#34;testId&#34;: &#34;tests/test_tools.py::test_get_general_news_no_results&#34;, &#34;duration&#34;: &#34;7 ms&#34;, &#34;resultsTableRow&#34;: [&#34;&lt;td class=\&#34;col-result\&#34;&gt;Passed&lt;/td&gt;&#34;, &#34;&lt;td class=\&#34;col-testId\&#34;&gt;tests/test_tools.py::test_get_general_news_no_results&lt;/td&gt;&#34;, &#34;&lt;td class=\&#34;col-duration\&#34;&gt;7 ms&lt;/td&gt;&#34;, &#34;&lt;td class=\&#34;col-links\&#34;&gt;&lt;/td&gt;&#34;], &#34;log&#34;: &#34;No log output captured.&#34;}], &#34;tests/test_tools.py::test_get_order_details_success&#34;: [{&#34;extras&#34;: [], &#34;result&#34;: &#34;Passed&#34;, &#34;testId&#34;: &#34;tests/test_tools.py::test_get_order_details_success&#34;, &#34;duration&#34;: &#34;6 ms&#34;, &#34;resultsTableRow&#34;: [&#34;&lt;td class=\&#34;col-result\&#34;&gt;Passed&lt;/td&gt;&#34;, &#34;&lt;td class=\&#34;col-testId\&#34;&gt;tests/test_tools.py::test_get_order_details_success&lt;/td&gt;&#34;, &#34;&lt;td class=\&#34;col-duration\&#34;&gt;6 ms&lt;/td&gt;&#34;, &#34;&lt;td class=\&#34;col-links\&#34;&gt;&lt;/td&gt;&#34;], &#34;log&#34;: &#34;No log output captured.&#34;}], &#34;tests/test_tools.py::test_get_trade_history_details_success&#34;: [{&#34;extras&#34;: [], &#34;result&#34;: &#34;Passed&#34;, &#34;testId&#34;: &#34;tests/test_tools.py::test_get_trade_history_details_success&#34;, &#34;duration&#34;: &#34;1 ms&#34;, &#34;resultsTableRow&#34;: [&#34;&lt;td class=\&#34;col-result\&#34;&gt;Passed&lt;/td&gt;&#34;, &#34;&lt;td class=\&#34;col-testId\&#34;&gt;tests/test_tools.py::test_get_trade_history_details_success&lt;/td&gt;&#34;, &#34;&lt;td class=\&#34;col-duration\&#34;&gt;1 ms&lt;/td&gt;&#34;, &#34;&lt;td class=\&#34;col-links\&#34;&gt;&lt;/td&gt;&#34;], &#34;log&#34;: &#34;No log output captured.&#34;}], &#34;tests/test_tools.py::test_get_trade_history_details_failure&#34;: [{&#34;extras&#34;: [], &#34;result&#34;: &#34;Passed&#34;, &#34;testId&#34;: &#34;tests/test_tools.py::test_get_trade_history_details_failure&#34;, &#34;duration&#34;: &#34;1 ms&#34;, &#34;resultsTableRow&#34;: [&#34;&lt;td class=\&#34;col-result\&#34;&gt;Passed&lt;/td&gt;&#34;, &#34;&lt;td class=\&#34;col-testId\&#34;&gt;tests/test_tools.py::test_get_trade_history_details_failure&lt;/td&gt;&#34;, &#34;&lt;td class=\&#34;col-duration\&#34;&gt;1 ms&lt;/td&gt;&#34;, &#34;&lt;td class=\&#34;col-links\&#34;&gt;&lt;/td&gt;&#34;], &#34;log&#34;: &#34;------------------------------ Captured log call -------------------------------\nERROR    app.utils.logger:trade_history.py:88 Failed to fetch order details for order123: API Error\n\n&#34;}]}, &#34;renderCollapsed&#34;: [&#34;passed&#34;], &#34;initialSort&#34;: &#34;result&#34;, &#34;title&#34;: &#34;report.html&#34;}"></div>
     <script>
       (function(){function r(e,n,t){function o(i,f){if(!n[i]){if(!e[i]){var c="function"==typeof require&&require;if(!f&&c)return c(i,!0);if(u)return u(i,!0);var a=new Error("Cannot find module '"+i+"'");throw a.code="MODULE_NOT_FOUND",a}var p=n[i]={exports:{}};e[i][0].call(p.exports,function(r){var n=e[i][1][r];return o(n||r)},p,p.exports,r,e,n,t)}return n[i].exports}for(var u="function"==typeof require&&require,i=0;i<t.length;i++)o(t[i]);return o}return r})()({1:[function(require,module,exports){
 const { getCollapsedCategory, setCollapsedIds } = require('./storage.js')

diff --git a/rag-chatbot/tests/test_summarization.py b/rag-chatbot/tests/test_summarization.py
@@ -8,13 +8,13 @@ from langchain_core.messages import (
 )
 
 from app.services.ai_agent.nodes.llm_chat import llm_chat_node
-from app.services.ai_agent.nodes.summarize import summarize_node
+from app.services.ai_agent.nodes.summarise import summarise_node
 from app.services.ai_agent.state import AgentState
 
 
 @pytest.mark.asyncio
-async def test_summarize_node_below_threshold():
-    """Test that summarize_node does nothing if below threshold."""
+async def test_summarise_node_below_threshold():
+    """Test that summarise_node does nothing if below threshold."""
 
     state: AgentState = {
         "messages": [HumanMessage(content="hi", id="1")],
@@ -22,15 +22,15 @@ async def test_summarize_node_below_threshold():
     }
     llm = AsyncMock()
 
-    result = await summarize_node(state, llm)
+    result = await summarise_node(state, llm)
 
     assert result == {}
     llm.ainvoke.assert_not_called()
 
 
 @pytest.mark.asyncio
-async def test_summarize_node_exceeds_threshold():
-    """Test that summarize_node triggers and returns RemoveMessages and a new summary."""
+async def test_summarise_node_exceeds_threshold():
+    """Test that summarise_node triggers and returns RemoveMessages and a new summary."""
 
     # Create 7 messages to exceed the threshold of 6
     messages = [HumanMessage(content=f"msg {i}", id=str(i)) for i in range(7)]
@@ -40,14 +40,14 @@ async def test_summarize_node_exceeds_threshold():
     mock_llm = AsyncMock()
     mock_llm.ainvoke.return_value = MagicMock(content="This is the new summary.")
 
-    result = await summarize_node(state, mock_llm)
+    result = await summarise_node(state, mock_llm)
 
     # Assertions
     assert "summary" in result
     assert result["summary"] == "This is the new summary."
     assert "messages" in result
 
-    # It should summarize everything EXCEPT the last 2 (indices 0 to 4)
+    # It should summarise everything EXCEPT the last 2 (indices 0 to 4)
     # So it should return 5 RemoveMessage objects
     assert len(result["messages"]) == 5
     assert all(isinstance(m, RemoveMessage) for m in result["messages"])
@@ -83,8 +83,8 @@ async def test_llm_chat_node_includes_summary():
 
 
 @pytest.mark.asyncio
-async def test_summarize_node_fails_gracefully():
-    """Test that summarize_node returns empty dict if LLM fails."""
+async def test_summarise_node_fails_gracefully():
+    """Test that summarise_node returns empty dict if LLM fails."""
 
     messages = [HumanMessage(content=f"msg {i}", id=str(i)) for i in range(10)]
     state: AgentState = {"messages": messages, "summary": ""}
@@ -92,5 +92,5 @@ async def test_summarize_node_fails_gracefully():
     mock_llm = AsyncMock()
     mock_llm.ainvoke.side_effect = Exception("API Down")
 
-    result = await summarize_node(state, mock_llm)
+    result = await summarise_node(state, mock_llm)
     assert result == {}

diff --git a/rag-chatbot/app/services/ai_agent/chat_workflow.py b/rag-chatbot/app/services/ai_agent/chat_workflow.py
@@ -11,7 +11,8 @@ from app.services.ai_agent.nodes import (
     format_response_node,
     general_news_node,
     llm_chat_node,
-    summarize_node,
+    should_summarise,
+    summarise_node,
     trade_history_node,
 )
 from app.services.ai_agent.state import AgentState
@@ -70,16 +71,20 @@ class ChatWorkflow:
         bound_chat_node = partial(
             llm_chat_node, llm=self.llm, system_prompt=self.system_prompt
         )
+        bound_summarise_node = partial(summarise_node, llm=self.llm)
 
+        # 1. Add Nodes
         graph.add_node("extract_order_id", extract_order_id_node)
         graph.add_node("trade_history", trade_history_node)
         graph.add_node("general_news", general_news_node)
         graph.add_node("llm_chat", bound_chat_node)
         graph.add_node("format_response", format_response_node)
-        graph.add_node("summarize", partial(summarize_node, llm=self.llm))
+        graph.add_node("summarise", bound_summarise_node)
 
+        # 2. Set Entry Point
         graph.set_entry_point("extract_order_id")
 
+        # 3. Define Conditional Routing from Entry
         graph.add_conditional_edges(
             "extract_order_id",
             self._route,
@@ -90,11 +95,20 @@ class ChatWorkflow:
             },
         )
 
+        # 4. Route all processing nodes to the Formatter
         graph.add_edge("trade_history", "format_response")
         graph.add_edge("general_news", "format_response")
         graph.add_edge("llm_chat", "format_response")
-        graph.add_edge("format_response", "summarize")
-        graph.add_edge("summarize", END)
+
+        # 5. Conditional logic: Decide whether to Summarise or End
+        graph.add_conditional_edges(
+            "format_response",
+            should_summarise,  # This function returns "summarise" or "end"
+            {"summarise": "summarise", "end": END},
+        )
+
+        # 6. After summarizing, the flow ends
+        graph.add_edge("summarise", END)
 
         return graph.compile(checkpointer=self.checkpointer)
 

diff --git a/rag-chatbot/app/services/ai_agent/nodes/summarise.py b/rag-chatbot/app/services/ai_agent/nodes/summarise.py
@@ -1,4 +1,4 @@
-from typing import Any, Dict
+from typing import Any, Dict, Literal
 
 from langchain_core.messages import RemoveMessage, SystemMessage
 
@@ -8,9 +8,15 @@ from app.utils.logger import setup_logging
 logger = setup_logging()
 
 
-async def summarize_node(state: AgentState, llm: Any) -> Dict[str, Any]:
+def should_summarise(state: AgentState) -> Literal["summarise", "end"]:
+    if len(state.get("messages", [])) > 6:
+        return "summarise"
+    return "end"
+
+
+async def summarise_node(state: AgentState, llm: Any) -> Dict[str, Any]:
     """
-    Summarizes the chat history if it exceeds a threshold (e.g., 6 messages).
+    Summarises the chat history if it exceeds a threshold (e.g., 6 messages).
     Removes the old messages while maintaining a rolling summary.
     """
     messages = state.get("messages", [])
@@ -23,11 +29,11 @@ async def summarize_node(state: AgentState, llm: Any) -> Dict[str, Any]:
     if len(messages) <= threshold:
         return {}
 
-    logger.info(f"Summarizing {len(messages)} messages (Threshold: {threshold}).")
+    logger.info(f"Summarising {len(messages)} messages (Threshold: {threshold}).")
 
-    # Construct the summarization prompt
+    # Construct the summarisation prompt
     summary_instruction = (
-        "Summarize the following conversation in a concise manner (1-2 sentences). "
+        "Summarise the following conversation in a concise manner (1-2 sentences). "
         "Include key entities mentioned and the current state of the request. "
         "Maintain continuity with any previous summary provided."
     )
@@ -37,7 +43,7 @@ async def summarize_node(state: AgentState, llm: Any) -> Dict[str, Any]:
 
     summarization_query = [
         SystemMessage(content=summary_instruction),
-        *messages[:-2],  # Summarize everything EXCEPT the last 2 messages
+        *messages[:-2],  # Summarise everything EXCEPT the last 2 messages
     ]
 
     try:

diff --git a/rag-chatbot/app/services/ai_agent/nodes/__init__.py b/rag-chatbot/app/services/ai_agent/nodes/__init__.py
@@ -4,7 +4,7 @@ from app.services.ai_agent.nodes.extract_order_id import extract_order_id_node
 from app.services.ai_agent.nodes.format_response import format_response_node
 from app.services.ai_agent.nodes.general_news import general_news_node
 from app.services.ai_agent.nodes.llm_chat import llm_chat_node
-from app.services.ai_agent.nodes.summarize import summarize_node
+from app.services.ai_agent.nodes.summarise import should_summarise, summarise_node
 from app.services.ai_agent.nodes.trade_history import trade_history_node
 
 __all__ = [
@@ -13,5 +13,6 @@ __all__ = [
     "extract_order_id_node",
     "format_response_node",
     "llm_chat_node",
-    "summarize_node",
+    "should_summarise",
+    "summarise_node",
 ]
